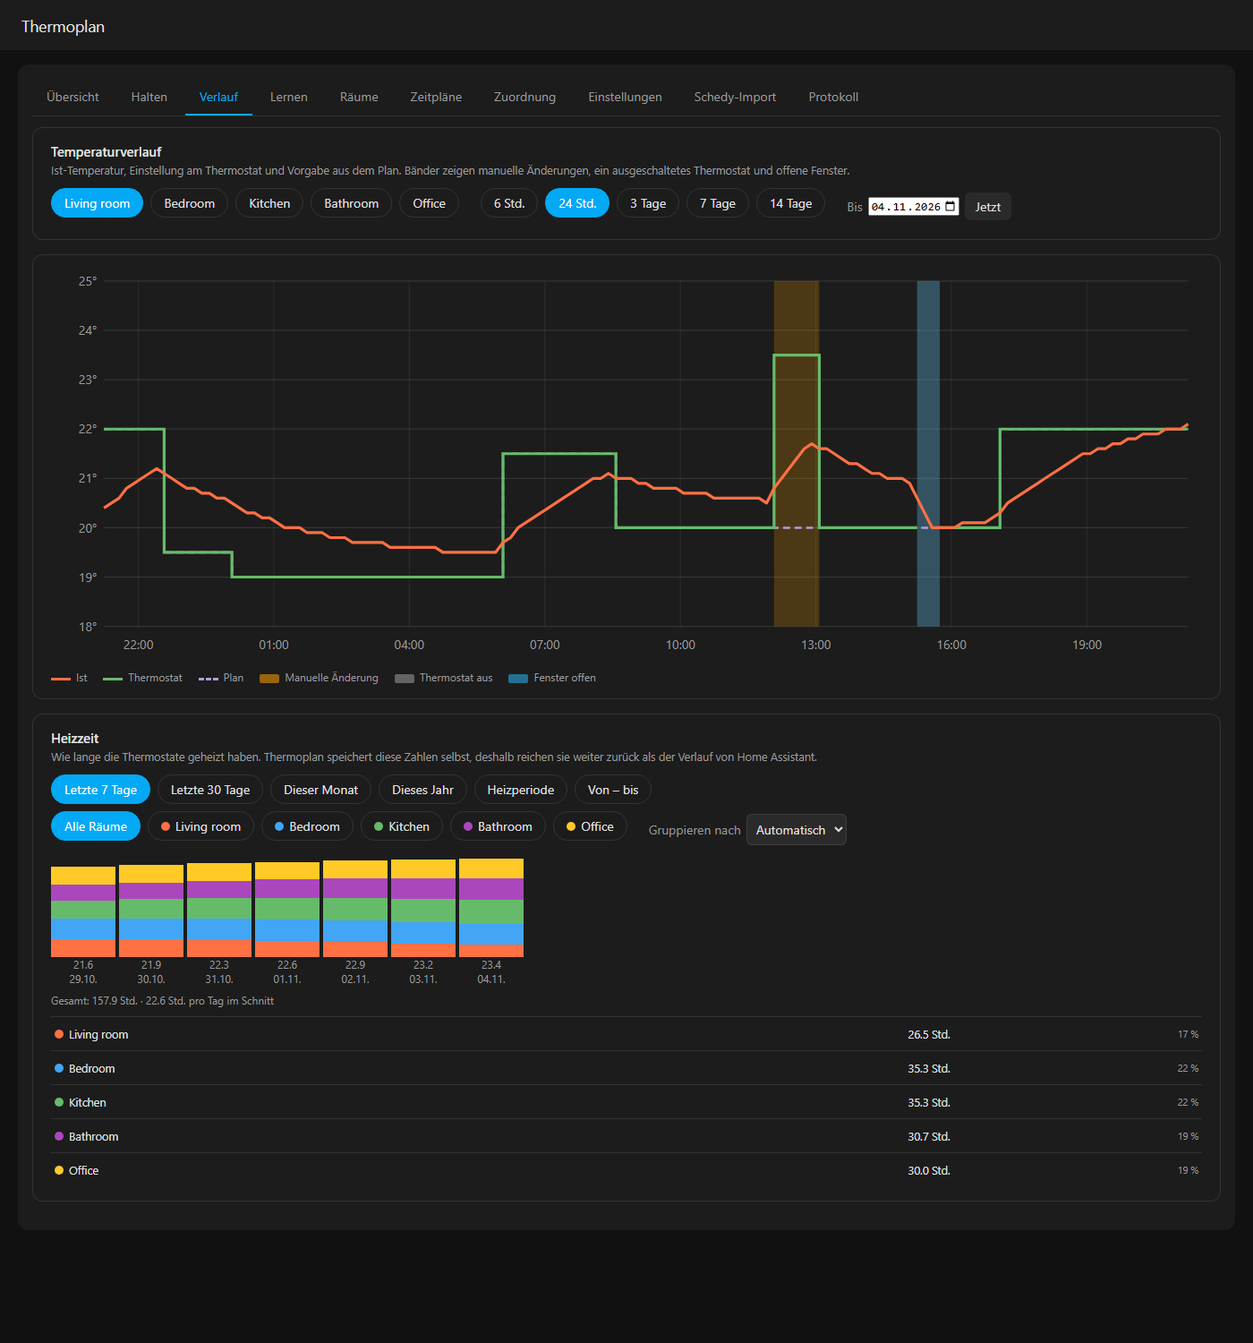
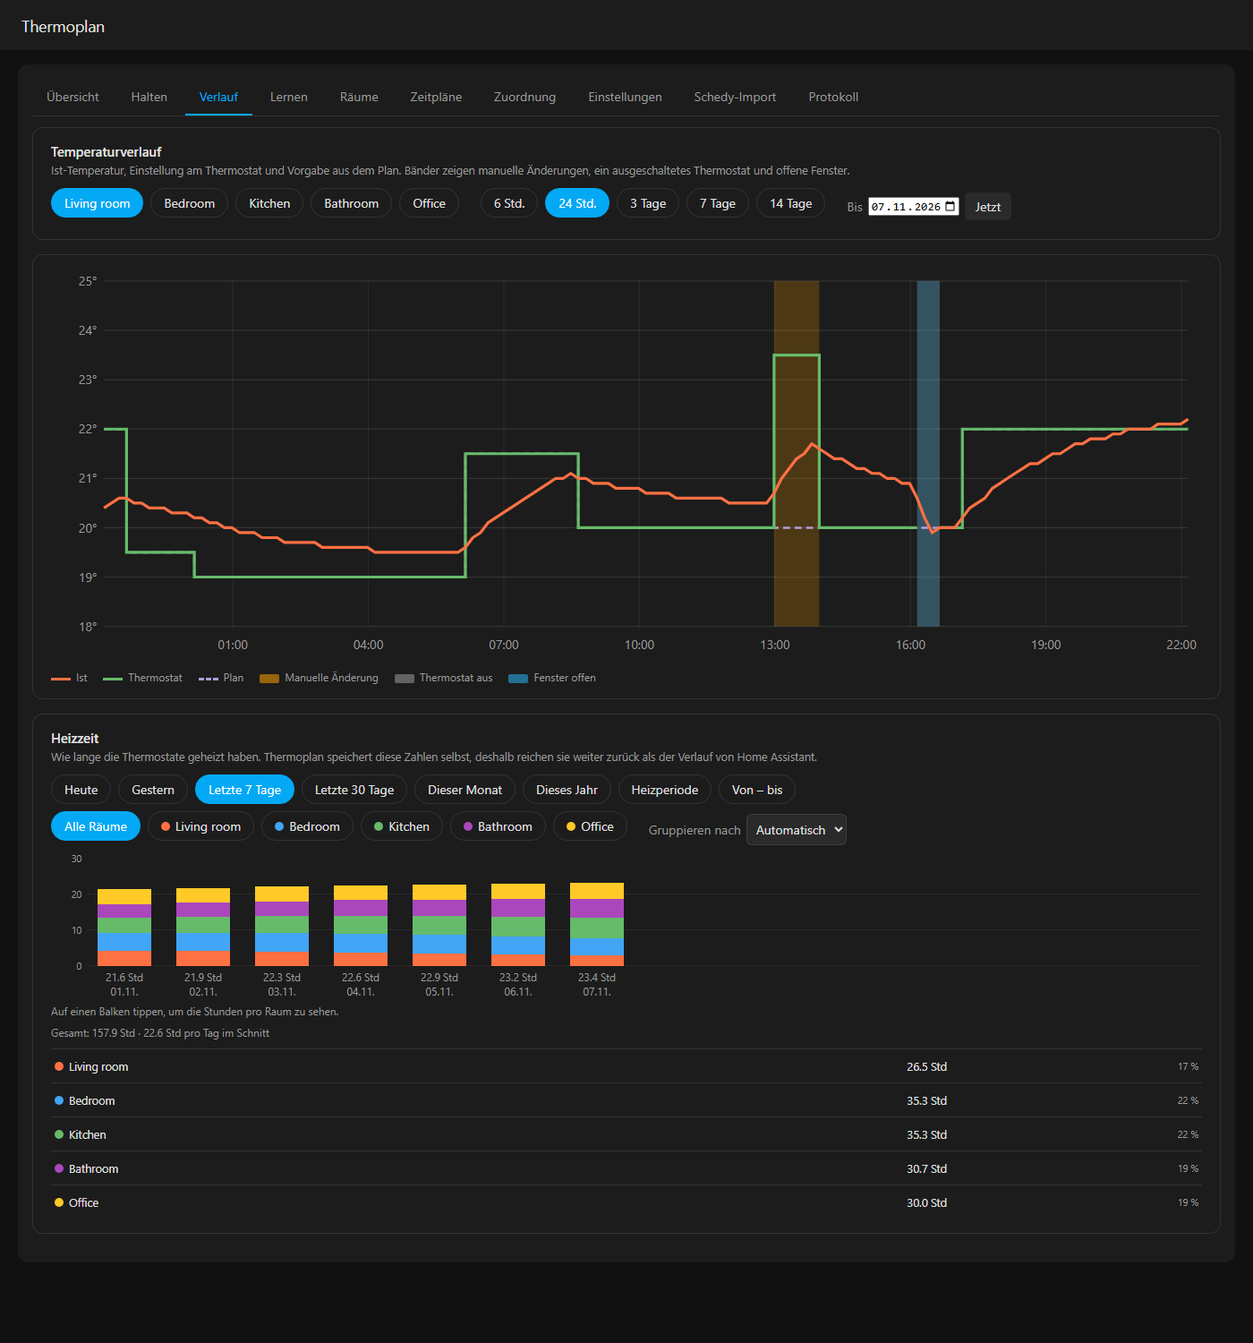
Mark today and current block in schedules, copy learning data, heating chart scale and tap details

diff --git a/custom_components/thermoplan/frontend/thermoplan-heating.js b/custom_components/thermoplan/frontend/thermoplan-heating.js
@@ -7,19 +7,19 @@ import { card } from "./thermoplan-settings.js";
 addStrings(
   {
     ht_title: "Heating time", ht_help: "How long the thermostats were heating. Thermoplan keeps these numbers itself, so they last longer than the Home Assistant history.",
-    ht_7d: "Last 7 days", ht_30d: "Last 30 days", ht_month: "This month", ht_year: "This year", ht_season: "Heating season", ht_custom: "From – to",
+    ht_today: "Today", ht_yesterday: "Yesterday", ht_7d: "Last 7 days", ht_30d: "Last 30 days", ht_month: "This month", ht_year: "This year", ht_season: "Heating season", ht_custom: "From – to",
     ht_from: "From", ht_to: "To", ht_group: "Group by", ht_day: "Day", ht_week: "Week", ht_month_g: "Month", ht_auto: "Automatic",
     ht_rooms: "Rooms", ht_all: "All rooms", ht_total: "Total", ht_avg: "per day on average", ht_h: "h", ht_share: "Share",
     ht_none: "No heating recorded in this period.", ht_since: "Recording started on %d; earlier days are not available.",
-    ht_week_short: "CW",
+    ht_week_short: "CW", ht_tap: "Tap a bar to see the hours per room.",
   },
   {
     ht_title: "Heizzeit", ht_help: "Wie lange die Thermostate geheizt haben. Thermoplan speichert diese Zahlen selbst, deshalb reichen sie weiter zurück als der Verlauf von Home Assistant.",
-    ht_7d: "Letzte 7 Tage", ht_30d: "Letzte 30 Tage", ht_month: "Dieser Monat", ht_year: "Dieses Jahr", ht_season: "Heizperiode", ht_custom: "Von – bis",
+    ht_today: "Heute", ht_yesterday: "Gestern", ht_7d: "Letzte 7 Tage", ht_30d: "Letzte 30 Tage", ht_month: "Dieser Monat", ht_year: "Dieses Jahr", ht_season: "Heizperiode", ht_custom: "Von – bis",
     ht_from: "Von", ht_to: "Bis", ht_group: "Gruppieren nach", ht_day: "Tag", ht_week: "Woche", ht_month_g: "Monat", ht_auto: "Automatisch",
-    ht_rooms: "Räume", ht_all: "Alle Räume", ht_total: "Gesamt", ht_avg: "pro Tag im Schnitt", ht_h: "Std.", ht_share: "Anteil",
+    ht_rooms: "Räume", ht_all: "Alle Räume", ht_total: "Gesamt", ht_avg: "pro Tag im Schnitt", ht_h: "Std", ht_share: "Anteil",
     ht_none: "In diesem Zeitraum wurde nicht geheizt.", ht_since: "Aufzeichnung seit %d; frühere Tage sind nicht verfügbar.",
-    ht_week_short: "KW",
+    ht_week_short: "KW", ht_tap: "Auf einen Balken tippen, um die Stunden pro Raum zu sehen.",
   },
 );
 
@@ -41,6 +41,8 @@ function isoWeek(d) {
 function period(st, settings) {
   const today = new Date(); today.setHours(0, 0, 0, 0);
   switch (st.preset) {
+    case "today": return [today, today];
+    case "yesterday": return [addDays(today, -1), addDays(today, -1)];
     case "30d": return [addDays(today, -29), today];
     case "month": return [new Date(today.getFullYear(), today.getMonth(), 1), today];
     case "year": return [new Date(today.getFullYear(), 0, 1), today];
@@ -124,14 +126,16 @@ export function renderHeating({ state, T, getHass, load, render }) {
   // hours per bucket per room
   const buckets = new Map();
   const bucketOf = (d) => {
-    if (group === "month") return [`${d.getFullYear()}-${pad(d.getMonth() + 1)}`, new Date(d.getFullYear(), d.getMonth(), 1).toLocaleDateString(hass.language, { month: "short", year: "2-digit" })];
-    if (group === "week") { const [y, w] = isoWeek(d); return [`${y}-W${pad(w)}`, `${T("ht_week_short")} ${w}`]; }
-    return [ymd(d), d.toLocaleDateString(hass.language, { day: "2-digit", month: "2-digit" })];
+    if (group === "month") return [`${d.getFullYear()}-${pad(d.getMonth() + 1)}`, new Date(d.getFullYear(), d.getMonth(), 1).toLocaleDateString(hass.language, { month: "short", year: "2-digit" }),
+      new Date(d.getFullYear(), d.getMonth(), 1).toLocaleDateString(hass.language, { month: "long", year: "numeric" })];
+    if (group === "week") { const [y, w] = isoWeek(d); return [`${y}-W${pad(w)}`, `${T("ht_week_short")} ${w}`, `${T("ht_week_short")} ${w}, ${y}`]; }
+    return [ymd(d), d.toLocaleDateString(hass.language, { day: "2-digit", month: "2-digit" }),
+      d.toLocaleDateString(hass.language, { weekday: "long", day: "2-digit", month: "2-digit", year: "numeric" })];
   };
   const totals = new Map(chosen.map((r) => [r.id, 0]));
   for (let d = from; d <= to; d = addDays(d, 1)) {
-    const [key, label] = bucketOf(d);
-    if (!buckets.has(key)) buckets.set(key, { label, per: new Map(chosen.map((r) => [r.id, 0])) });
+    const [key, label, full] = bucketOf(d);
+    if (!buckets.has(key)) buckets.set(key, { key, label, full, per: new Map(chosen.map((r) => [r.id, 0])) });
     for (const r of chosen) {
       const hours = ((stats[r.id] || {})[ymd(d)] || 0) / 60;
       buckets.get(key).per.set(r.id, buckets.get(key).per.get(r.id) + hours);
@@ -141,11 +145,16 @@ export function renderHeating({ state, T, getHass, load, render }) {
   const total = [...totals.values()].reduce((a, b) => a + b, 0);
   const colorOf = (id) => COLORS[rooms.findIndex((r) => r.id === id) % COLORS.length];
   const sums = [...buckets.values()].map((b) => [...b.per.values()].reduce((a, c) => a + c, 0));
-  const max = Math.max(1, ...sums);
+  // a round upper limit and tick step for the hours scale
+  const top = Math.max(...sums, 0.5);
+  const step = [0.5, 1, 2, 5, 10, 20, 50, 100, 200].find((s) => top / s <= 4) || 500;
+  const scaleMax = Math.ceil(top / step) * step;
+  const ticks = Array.from({ length: Math.round(scaleMax / step) + 1 }, (_, i) => i * step);
+  const H = 120;
 
   const chip = (label, active, onclick, color) => h("button", { class: "chip" + (active ? " active" : ""), onclick },
     color ? h("i", { style: `display:inline-block;width:10px;height:10px;border-radius:50%;background:${color};margin-right:6px` }) : null, label);
-  const presets = [["7d", "ht_7d"], ["30d", "ht_30d"], ["month", "ht_month"], ["year", "ht_year"], ["season", "ht_season"], ["custom", "ht_custom"]];
+  const presets = [["today", "ht_today"], ["yesterday", "ht_yesterday"], ["7d", "ht_7d"], ["30d", "ht_30d"], ["month", "ht_month"], ["year", "ht_year"], ["season", "ht_season"], ["custom", "ht_custom"]];
   const dateInput = (key, value) => h("input", { type: "date", value, max: ymd(new Date()), onchange: (ev) => { st[key] = ev.target.value || null; render(); } });
   const controls = [
     h("div", { class: "chips" }, ...presets.map(([id, label]) => chip(T(label), st.preset === id, () => { st.preset = id; render(); }))),
@@ -163,15 +172,29 @@ export function renderHeating({ state, T, getHass, load, render }) {
             .map(([v, l]) => h("option", { value: v, selected: st.group === v }, T(l)))))),
   ];
 
-  const bars = [...buckets.values()].map((b, i) => {
+  const fmtH = (v) => `${v.toFixed(1)} ${T("ht_h")}`;
+  const picked = st.pick && buckets.has(st.pick) ? buckets.get(st.pick) : null;
+  const cols = [...buckets.values()].map((b, i) => {
     const parts = chosen.map((r) => [r, b.per.get(r.id)]).filter(([, v]) => v > 0);
-    return h("div", { style: "flex:1 1 0;min-width:26px;max-width:72px;text-align:center" },
-      h("div", { style: "height:110px;display:flex;flex-direction:column-reverse;justify-content:flex-start" },
-        ...parts.map(([r, v]) => h("div", { title: `${r.name}: ${v.toFixed(1)} ${T("ht_h")}`,
-          style: `height:${(v / max) * 100}%;min-height:2px;background:${colorOf(r.id)}` }))),
-      h("div", { class: "muted" }, sums[i] > 0 ? sums[i].toFixed(1) : "–"),
-      h("div", { class: "muted" }, b.label));
+    return h("div", { style: `flex:1 1 0;min-width:54px;max-width:84px;text-align:center;cursor:pointer;border-radius:6px;${picked === b ? "background:var(--secondary-background-color)" : ""}`,
+      onclick: () => { st.pick = st.pick === b.key ? null : b.key; render(); } },
+      h("div", { style: `height:${H}px;display:flex;flex-direction:column-reverse;justify-content:flex-start;padding:0 14%;position:relative;z-index:1` },
+        ...parts.map(([r, v]) => h("div", { title: `${r.name}: ${fmtH(v)}`, style: `height:${(v / scaleMax) * 100}%;min-height:2px;background:${colorOf(r.id)}` }))),
+      h("div", { class: "muted", style: "white-space:nowrap;margin-top:4px" }, sums[i] > 0 ? fmtH(sums[i]) : "–"),
+      h("div", { class: "muted", style: "white-space:nowrap" }, b.label));
   });
+  const axis = h("div", { style: `flex:0 0 auto;position:relative;height:${H}px;width:34px;margin-right:6px;font-size:0.75em;color:var(--secondary-text-color)` },
+    ...ticks.map((t) => h("div", { style: `position:absolute;right:0;bottom:${(t / scaleMax) * 100}%;transform:translateY(50%)` }, step < 1 ? t.toFixed(1) : String(t))));
+  const grid = h("div", { style: `position:absolute;left:0;right:0;top:0;height:${H}px;pointer-events:none` },
+    ...ticks.map((t) => h("div", { style: `position:absolute;left:0;right:0;bottom:${(t / scaleMax) * 100}%;border-top:1px solid var(--divider-color);opacity:0.6` })));
+  const chartEl = h("div", { style: "display:flex;margin-top:12px" }, axis,
+    h("div", { style: "flex:1 1 auto;min-width:0;overflow-x:auto" },
+      h("div", { style: "position:relative;display:flex;gap:4px;min-width:100%;width:max-content" }, grid, ...cols)));
+  const detail = picked ? h("div", { style: "margin-top:10px;padding:10px 12px;border-radius:8px;background:var(--secondary-background-color)" },
+    h("div", { style: "font-weight:500;margin-bottom:4px" }, `${picked.full}: ${fmtH([...picked.per.values()].reduce((a, c) => a + c, 0))}`),
+    ...chosen.map((r) => h("div", { style: "display:flex;justify-content:space-between;gap:16px" },
+      h("span", {}, h("i", { style: `display:inline-block;width:10px;height:10px;border-radius:50%;background:${colorOf(r.id)};margin-right:6px` }), r.name),
+      h("span", {}, fmtH(picked.per.get(r.id)))))) : h("div", { class: "muted", style: "margin-top:6px" }, T("ht_tap"));
 
   const recorded = Object.values(stats).flatMap((days) => Object.keys(days)).sort()[0];
   const since = recorded && parse(recorded) > from ? T("ht_since").replace("%d", parse(recorded).toLocaleDateString(hass.language)) : null;
@@ -181,7 +204,8 @@ export function renderHeating({ state, T, getHass, load, render }) {
       h("td", { class: "muted", style: "text-align:right;padding-left:16px" }, total > 0 ? `${Math.round((totals.get(r.id) / total) * 100)} %` : "")))) : null;
 
   return card(T("ht_title"), T("ht_help"), ...controls,
-    total > 0 ? h("div", { style: "display:flex;gap:4px;overflow-x:auto;margin-top:12px" }, ...bars) : h("div", { class: "empty", style: "margin-top:12px" }, T("ht_none")),
+    total > 0 ? chartEl : h("div", { class: "empty", style: "margin-top:12px" }, T("ht_none")),
+    total > 0 ? detail : null,
     h("div", { class: "muted", style: "margin-top:8px" }, `${T("ht_total")}: ${total.toFixed(1)} ${T("ht_h")} · ${(total / dayCount).toFixed(1)} ${T("ht_h")} ${T("ht_avg")}`),
     since ? h("div", { class: "muted" }, since) : null, table);
 }

diff --git a/custom_components/thermoplan/frontend/thermoplan-schedule-editor.js b/custom_components/thermoplan/frontend/thermoplan-schedule-editor.js
@@ -13,7 +13,7 @@ addStrings(
     se_day: "Day", se_from: "From", se_to: "To", se_plus1: "+1 day", se_add_block: "Add block",
     se_time_hint: "Type times as 7, 7:30 or 0730. An end at or before the start means the next day (22:00 to 01:00); 00:00 as end means midnight.",
     se_copy_to: "Copy this day to", se_copy: "Copy", se_weekdays: "Mon-Fri", se_all_days: "All days",
-    se_valid: "Schedule is valid.", se_problems: "Problems", se_no_free: "has no free time left for another block.",
+    se_today: "Today, now", se_valid: "Schedule is valid.", se_problems: "Problems", se_no_free: "has no free time left for another block.",
     se_invalid: "empty or covered by another block", se_overlap: "overlap", se_no_blocks: "No blocks on this day.",
     se_add_on: "Add a block on", se_continues: "Continues from", se_until: "until", se_ext: "Drag to continue the block past midnight",
     se_spill_hint: "Drag to move, drag the right edge to change the end.",
@@ -26,7 +26,7 @@ addStrings(
     se_day: "Tag", se_from: "Von", se_to: "Bis", se_plus1: "+1 Tag", se_add_block: "Block hinzufügen",
     se_time_hint: "Zeiten als 7, 7:30 oder 0730 eingeben. Ein Ende zur oder vor der Startzeit bedeutet den nächsten Tag (22:00 bis 01:00); 00:00 als Ende bedeutet Mitternacht.",
     se_copy_to: "Diesen Tag kopieren nach", se_copy: "Kopieren", se_weekdays: "Mo-Fr", se_all_days: "Alle Tage",
-    se_valid: "Zeitplan ist gültig.", se_problems: "Probleme", se_no_free: "hat keine freie Zeit mehr für einen weiteren Block.",
+    se_today: "Heute, jetzt", se_valid: "Zeitplan ist gültig.", se_problems: "Probleme", se_no_free: "hat keine freie Zeit mehr für einen weiteren Block.",
     se_invalid: "leer oder von einem anderen Block verdeckt", se_overlap: "überschneiden sich", se_no_blocks: "Keine Blöcke an diesem Tag.",
     se_add_on: "Block hinzufügen am", se_continues: "Fortsetzung von", se_until: "bis", se_ext: "Ziehen, um den Block über Mitternacht zu verlängern",
     se_spill_hint: "Ziehen zum Verschieben, am rechten Rand ziehen zum Ändern des Endes.",
@@ -47,6 +47,11 @@ export const SCHEDULE_STYLE = `
   .se-addbtn { padding: 4px 0; width: 34px; font-weight: 700; cursor: pointer; }
   .se-bar { position: relative; height: 44px; border-radius: 8px; background: var(--secondary-background-color); touch-action: none; user-select: none; cursor: crosshair;
     background-image: repeating-linear-gradient(90deg, transparent 0, transparent calc(100%/24 - 1px), var(--divider-color) calc(100%/24 - 1px), var(--divider-color) calc(100%/24)); }
+  .se-now { position: absolute; top: -4px; bottom: -4px; width: 3px; margin-left: -1px; background: #fff; border-radius: 2px;
+    box-shadow: 0 0 0 1px rgba(0,0,0,.7); pointer-events: none; z-index: 4; }
+  .se-blk.now { outline: 2px solid #fff; outline-offset: -2px; box-shadow: 0 0 0 1px rgba(0,0,0,.6), 0 1px 2px rgba(0,0,0,.4); }
+  .se-dlabel.today::before { content: "●"; color: var(--primary-color); margin-right: 4px; font-size: 0.8em; }
+  .se-dlabel.sel.today::before { color: #fff; }
   .se-bar.sel { outline: 2px solid var(--primary-color); outline-offset: 1px; }
   .se-blk { position: absolute; top: 3px; bottom: 3px; border-radius: 6px; color: #fff; font-weight: 500; font-size: 12px;
     display: flex; align-items: center; justify-content: center; overflow: hidden; white-space: nowrap; cursor: grab;
@@ -119,7 +124,7 @@ const label = (t) => (t === null ? "off" : `${t}`);
 
 export function createScheduleEditorState(draft) {
   return {
-    draft, sel: null, curDay: 0, pen: 21, step: 15, copy: new Set(), undo: [], redo: [], drag: null,
+    draft, sel: null, curDay: (new Date().getDay() + 6) % 7, pen: 21, step: 15, copy: new Set(), undo: [], redo: [], drag: null,
     root: null, T: null, tip: null, pop: null, flashText: null, flashTimer: null,
   };
 }
@@ -229,13 +234,14 @@ function paint(ed) {
 
   // --- week grid ---
   const week = h("div", { class: "se-week" });
+  const nowDate = new Date(), todayIdx = (nowDate.getDay() + 6) % 7, nowMin = nowDate.getHours() * 60 + nowDate.getMinutes();
   for (let d = 0; d < 7; d++) {
-    const lab = h("div", { class: "se-dlabel" + (d === ed.curDay ? " sel" : ""), onclick: () => { ed.curDay = d; ed.sel = null; paint(ed); } }, days[d]);
+    const lab = h("div", { title: d === todayIdx ? T("se_today") : "", class: "se-dlabel" + (d === ed.curDay ? " sel" : "") + (d === todayIdx ? " today" : ""), onclick: () => { ed.curDay = d; ed.sel = null; paint(ed); } }, days[d]);
     const bar = h("div", { class: "se-bar" + (d === ed.curDay ? " sel" : "") });
     bar.dataset.day = d;
 
     spillOf(ed, d).forEach((sp) => {
-      const e = h("div", { class: "se-blk spill" + (sp.t === null ? " off" : "") + (ed.sel && ed.sel.day === sp.src && ed.sel.idx === sp.idx ? " sel" : ""),
+      const e = h("div", { class: "se-blk spill" + (d === todayIdx && nowMin < sp.end ? " now" : "") + (sp.t === null ? " off" : "") + (ed.sel && ed.sel.day === sp.src && ed.sel.idx === sp.idx ? " sel" : ""),
         style: `left:0;width:${(sp.end / DAY) * 100}%;background:${color(sp.t)}`,
         title: `${T("se_continues")} ${days[sp.src]} (${T("se_until")} ${fmt(sp.end)}). ${T("se_spill_hint")}` }, label(sp.t));
       const r = h("div", { class: "hd r" }); r.dataset.part = "r"; e.appendChild(r);
@@ -250,7 +256,7 @@ function paint(ed) {
       }
     });
     blocks(ed, d).forEach((b, i) => {
-      const e = h("div", { class: "se-blk" + (b[2] === null ? " off" : "") + (ed.sel && ed.sel.day === d && ed.sel.idx === i ? " sel" : "") + (bad.has(d + ":" + i) ? " bad" : ""),
+      const e = h("div", { class: "se-blk" + (d === todayIdx && b[0] <= nowMin && nowMin < b[1] ? " now" : "") + (b[2] === null ? " off" : "") + (ed.sel && ed.sel.day === d && ed.sel.idx === i ? " sel" : "") + (bad.has(d + ":" + i) ? " bad" : ""),
         style: `left:${(b[0] / DAY) * 100}%;width:${((Math.min(b[1], DAY) - b[0]) / DAY) * 100}%;background:${color(b[2])}`,
         title: `${fmt(b[0])} - ${fmt(b[1])}${b[1] > DAY ? " (+1)" : ""}  ${label(b[2])}` }, b[1] > DAY ? `${label(b[2])} →` : label(b[2]));
       const l = h("div", { class: "hd l" }); l.dataset.part = "l"; e.appendChild(l);
@@ -258,6 +264,7 @@ function paint(ed) {
       e.onpointerdown = (ev) => startBlockDrag(ed, ev, d, i, ev.target.dataset.part || "m");
       bar.appendChild(e);
     });
+    if (d === todayIdx) bar.appendChild(h("div", { class: "se-now", title: T("se_today"), style: `left:${(nowMin / DAY) * 100}%` }));
     bar.onpointerdown = (ev) => { if (ev.target === bar) startCreate(ed, ev, d, bar); };
     bar.onpointermove = (ev) => { if (!ed.drag) showTip(ed, ev.clientX, ev.clientY, fmt(minuteAt(ed, ev, bar.getBoundingClientRect()))); };
     bar.onpointerleave = () => { ed.tip.style.display = "none"; };

diff --git a/custom_components/thermoplan/frontend/thermoplan-learning.js b/custom_components/thermoplan/frontend/thermoplan-learning.js
@@ -13,6 +13,7 @@ addStrings(
     ln_cool: "Heat loss", ln_cool_hint: "the room loses this fraction of the difference to outside per hour",
     ln_example: "18 → 20 °C takes about", ln_outdoor: "at outdoor", ln_nothing: "Not learned yet.",
     ln_now: "Right now", ln_samples_title: "Recent observations", ln_events: "What it did",
+    ln_copy: "Copy all data", ln_copied: "Copied to the clipboard", ln_copy_failed: "Could not copy",
     ln_reset: "Reset learning", ln_reset_all: "Reset all", ln_confirm: "Delete everything learned?", ln_no_events: "Nothing yet.",
     ln_kind_heat: "Heating", ln_kind_idle: "Cooling", ln_col_when: "When", ln_col_kind: "Type", ln_col_dur: "Duration", ln_col_delta: "Change", ln_col_rate: "Speed", ln_col_out: "Outdoor",
     ln_per_hour: "°C/h", ln_min: "min", ln_no_rooms: "No rooms yet.",
@@ -28,6 +29,7 @@ addStrings(
     ln_cool: "Wärmeverlust", ln_cool_hint: "der Raum verliert pro Stunde diesen Anteil des Unterschieds zu draußen",
     ln_example: "18 → 20 °C dauert etwa", ln_outdoor: "bei Außentemperatur", ln_nothing: "Noch nichts gelernt.",
     ln_now: "Gerade jetzt", ln_samples_title: "Letzte Beobachtungen", ln_events: "Was es getan hat",
+    ln_copy: "Alle Daten kopieren", ln_copied: "In die Zwischenablage kopiert", ln_copy_failed: "Kopieren nicht möglich",
     ln_reset: "Gelerntes zurücksetzen", ln_reset_all: "Alles zurücksetzen", ln_confirm: "Alles Gelernte löschen?", ln_no_events: "Noch nichts.",
     ln_kind_heat: "Aufheizen", ln_kind_idle: "Abkühlen", ln_col_when: "Wann", ln_col_kind: "Art", ln_col_dur: "Dauer", ln_col_delta: "Änderung", ln_col_rate: "Tempo", ln_col_out: "Außen",
     ln_per_hour: "°C/Std.", ln_min: "Min.", ln_no_rooms: "Noch keine Räume.",
@@ -115,7 +117,26 @@ export function renderLearning({ state, T, getHass, load, render }) {
     ...(data.events.length ? data.events.map((e) => h("div", { class: "log-line" }, h("span", { class: "log-time" }, time(e.time)),
       h("span", { class: "log-room" }, e.room || ""), h("span", {}, e.message))) : [h("div", { class: "empty" }, T("ln_no_events"))]));
 
-  return h("div", {}, settingsCard, ...(data.rooms.length ? data.rooms.map(roomCard) : [h("div", { class: "empty" }, T("ln_no_rooms"))]), events,
+  const copyAll = async () => {
+    const payload = JSON.stringify({
+      exported: new Date().toISOString(), settings: cfg,
+      rooms: data.rooms.map(({ samples, all_samples, ...room }) => ({ ...room, samples: all_samples || samples })),
+      events: data.events,
+    }, null, 1);
+    let ok = false;
+    try { await navigator.clipboard.writeText(payload); ok = true; } catch (err) {
+      const area = h("textarea", { style: "position:fixed;opacity:0" }); area.value = payload;
+      document.body.append(area); area.select();
+      try { ok = document.execCommand("copy"); } catch (e) { ok = false; }
+      area.remove();
+    }
+    state.copyMsg = ok ? T("ln_copied") : T("ln_copy_failed"); state.copyErr = !ok; render();
+    setTimeout(() => { state.copyMsg = null; render(); }, 3000);
+  };
+  const copyBar = h("div", { class: "row" }, h("button", { class: "btn secondary", onclick: copyAll }, T("ln_copy")),
+    state.copyMsg ? h("span", { class: "msg" + (state.copyErr ? " error" : "") }, state.copyMsg) : null);
+
+  return h("div", {}, copyBar, settingsCard, ...(data.rooms.length ? data.rooms.map(roomCard) : [h("div", { class: "empty" }, T("ln_no_rooms"))]), events,
     data.rooms.length > 1 ? h("div", { class: "row" }, h("button", { class: "btn secondary", onclick: async () => {
       if (!confirm(T("ln_confirm"))) return;
       await hass.callWS({ type: "thermoplan/reset_learning" }); state.learnLoaded = false; render();

diff --git a/custom_components/thermoplan/controller.py b/custom_components/thermoplan/controller.py
@@ -958,6 +958,8 @@ class Controller:
                 "example_minutes": example,
                 "state": self.runtime[room.id].learning, "note": self.runtime[room.id].learn_note,
                 "samples": list(reversed(self.data.learning.get(room.id, {}).get("samples", [])))[:15],
+                "all_samples": self.data.learning.get(room.id, {}).get("samples", []),
+                "thermostats": room.climates, "room_temperature": self.room_temperature(room),
             })
         events = [e for e in reversed(self.events) if e.get("kind") == "learning"][:30]
         return {"settings": cfg, "rooms": rooms, "events": events}

diff --git a/README.md b/README.md
@@ -49,6 +49,7 @@ The panel is available in English and German (`docs/screenshots/*-de.png`). Scre
 - Away until a date (or a number of days) with a configurable resume time (e.g. back on the 4th, heating resumes at 13:00), optional profile while away (e.g. basic warmth); set 0 when you are back early
 - Presence rules: when a person entity changes to `home`, `not_home` or a zone name, switch profile
 - Heating statistics (History tab): heating time per day, week or month for any period (last 7/30 days, this month/year, heating season or from-to), per room or combined; Thermoplan records it itself, so it reaches back further than the Home Assistant history
+- The schedule editor marks today and the block that is running now; the Learning tab can copy all learned data to the clipboard
 - Entity pickers open a searchable list with domain/device-class chips (room occupancy starts on presence and motion sensors)
 - Away pre-warm: a presence rule can be limited to a change from a certain state and wait some minutes first, e.g. from `work` to `not_home` after 90 min switches to a warm profile 30 minutes before you arrive from a two-hour trip; arriving earlier applies the home rule at once
 - Several thermostats per room (all get the same target) and an optional external room temperature sensor used for the Overview, warnings and learning
